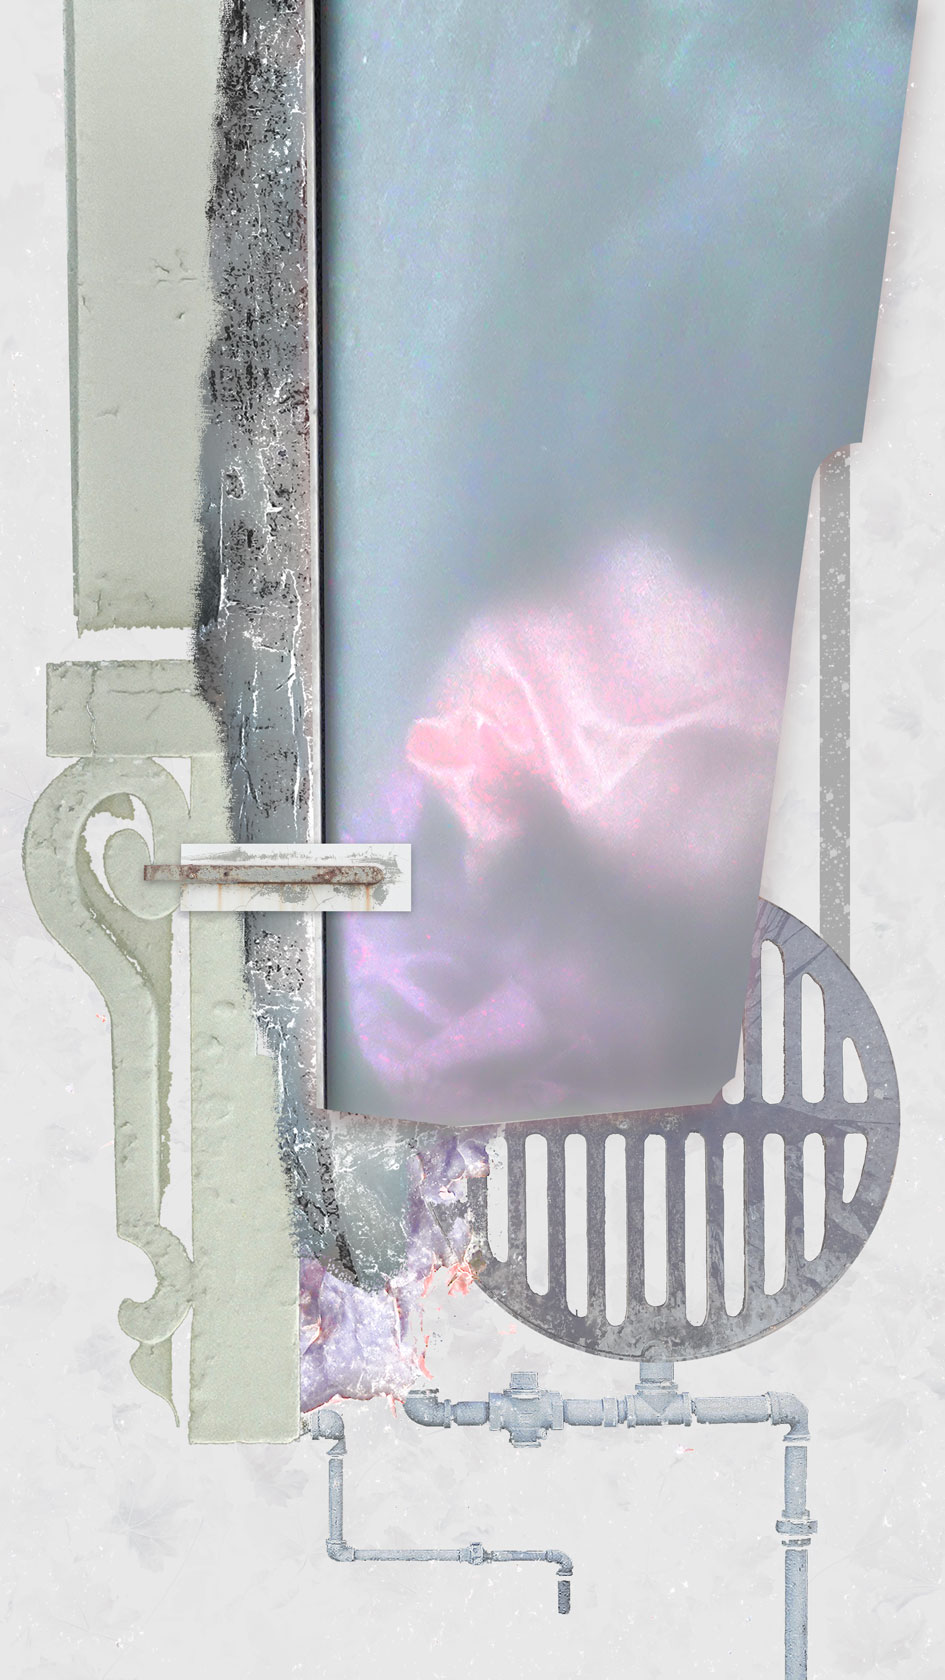
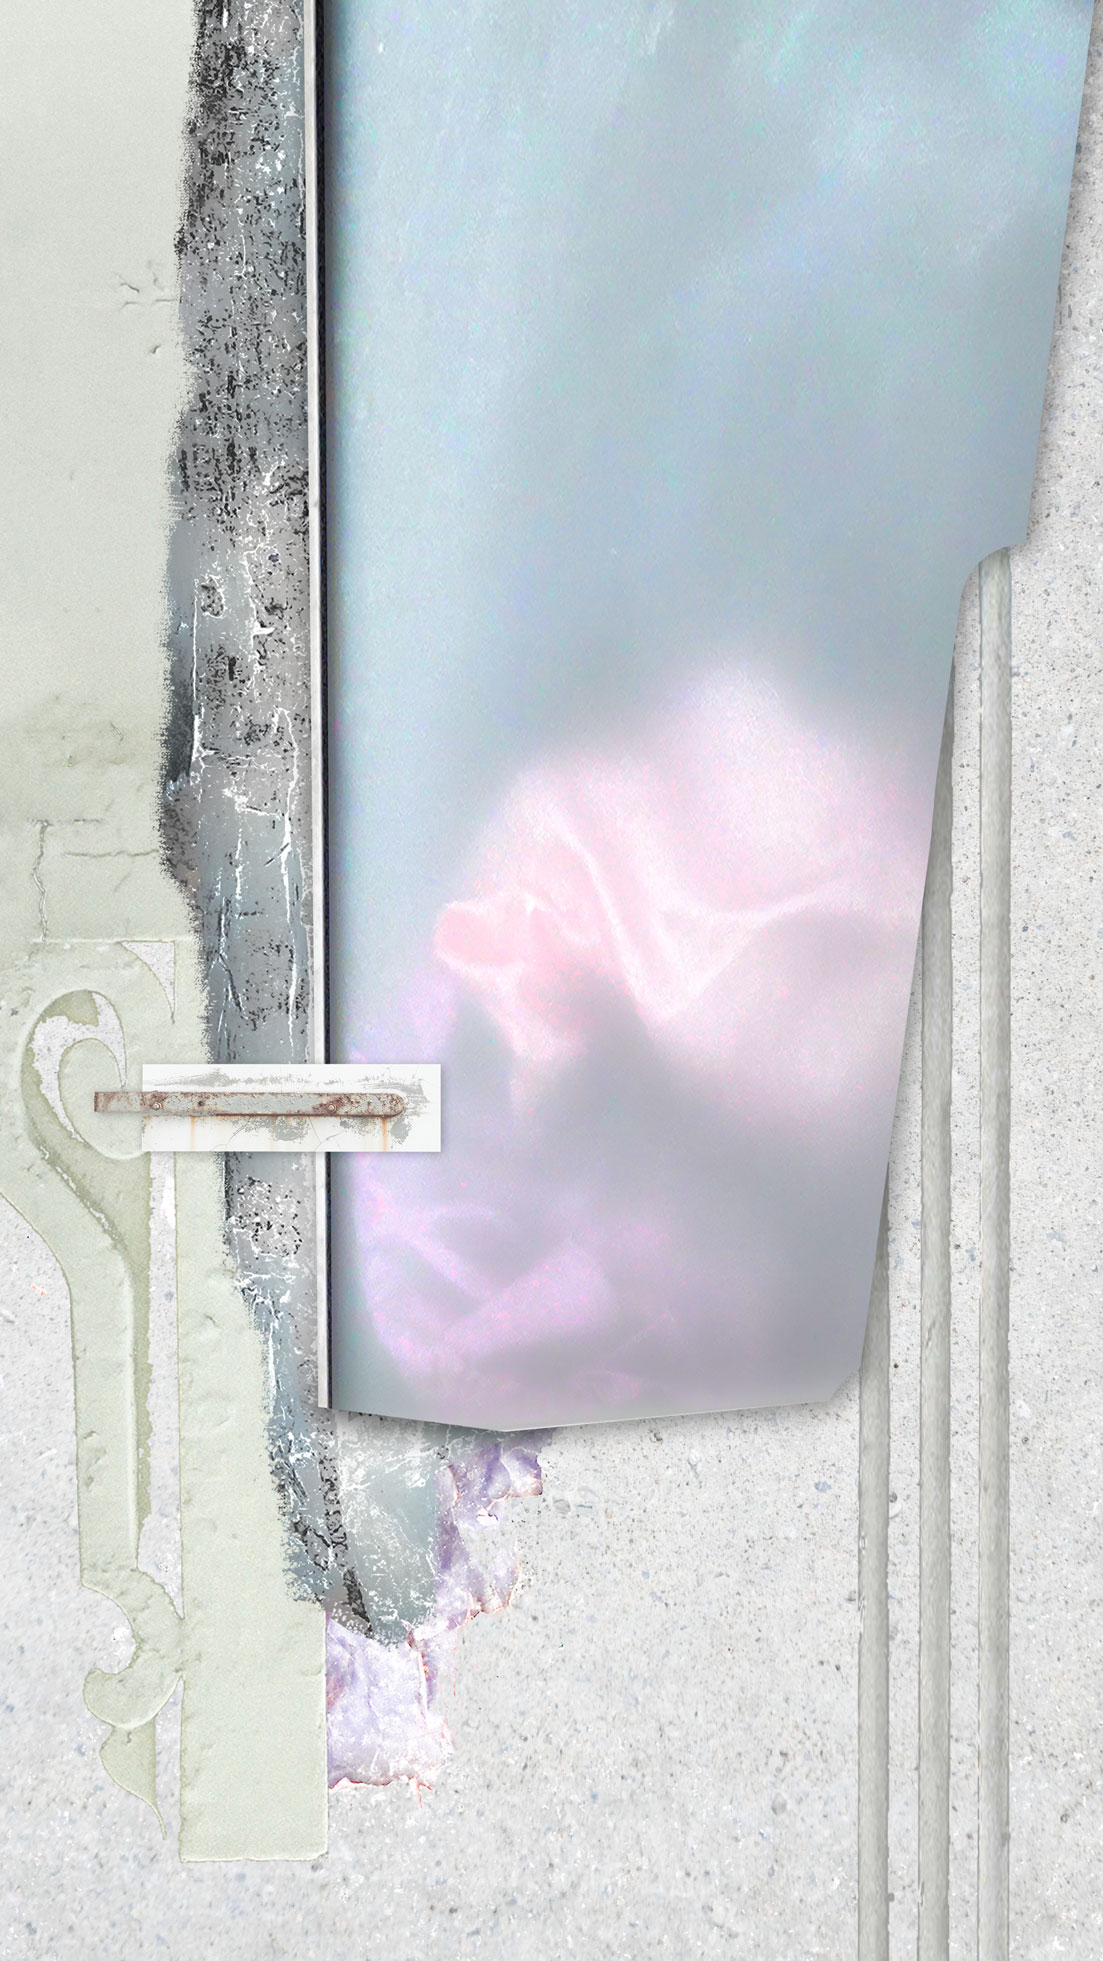
added biotech fixed moms room and prysmatic

diff --git a/HTML/works.html b/HTML/works.html
@@ -43,7 +43,7 @@
         </div>
         
          <div class="artcontainer">
-            <div class="imagewrap"><a href="opendescription3.html"><img src="../IMAGES/PRISMATICNATURAL-3bright2.jpg"></a></div>
+            <div class="imagewrap"><a href="opendescription3.html"><img src="../IMAGES/PRISMATICNATURAL-3.jpg"></a></div>
            
         </div>
         
@@ -52,15 +52,17 @@
            
         </div>
         
+<!--
          <div class="artcontainer">
              <div class="imagewrap"><a href="opendescription5.html"><img src="../IMAGES/bezerk.jpg"></a></div>
            
         </div>
+-->
         
     
         
-        <div class="artcontainer">
-             <div class="imagewrap"><a href="opendescription6.html"><img src="../IMAGES/westmount-2.5.jpg"></a></div>
+        <div class="artcontainersquare">
+             <div class="imagewrapsquare"><a href="opendescription6.html"><img src="../IMAGES/biotech-blur-good.jpg"></a></div>
            
         </div>
            

diff --git a/HTML/opendescription6.html b/HTML/opendescription6.html
@@ -32,8 +32,8 @@
 
 
     <div id="float">
-        <div class="artcontainersolo">
-            <div class="imagewrapsolo"><img src="../IMAGES/westmount-2.5.jpg" alt="the blank iron"></div>
+        <div class="artcontainersquaresolo">
+            <div class="imagewrapsquaresolo"><img src="../IMAGES/biotech-blur-good.jpg" alt="the blank iron"></div>
 
 
 
@@ -43,7 +43,7 @@
     
     <div id="arttextfade">
     <div class="arttext">
-    <p><b>hyperloop</b><br><br> an abstract work formed around an image of a tesla charging cable.
+    <p><b>biotech</b><br><br> when nature and man converge.
           <br><br><u><a href="works.html">↵return</a></u> </p>    
     </div>
     
